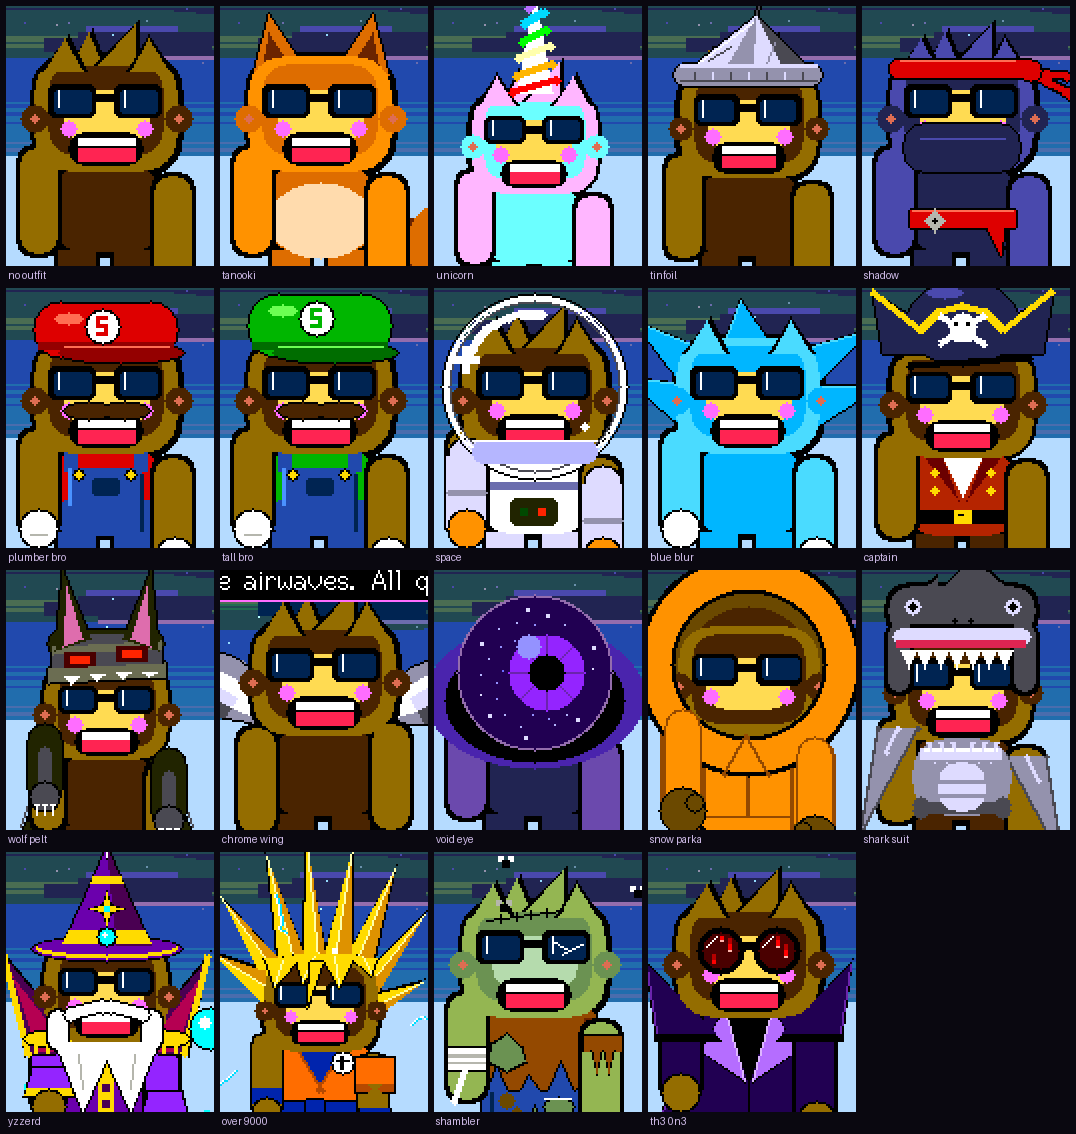
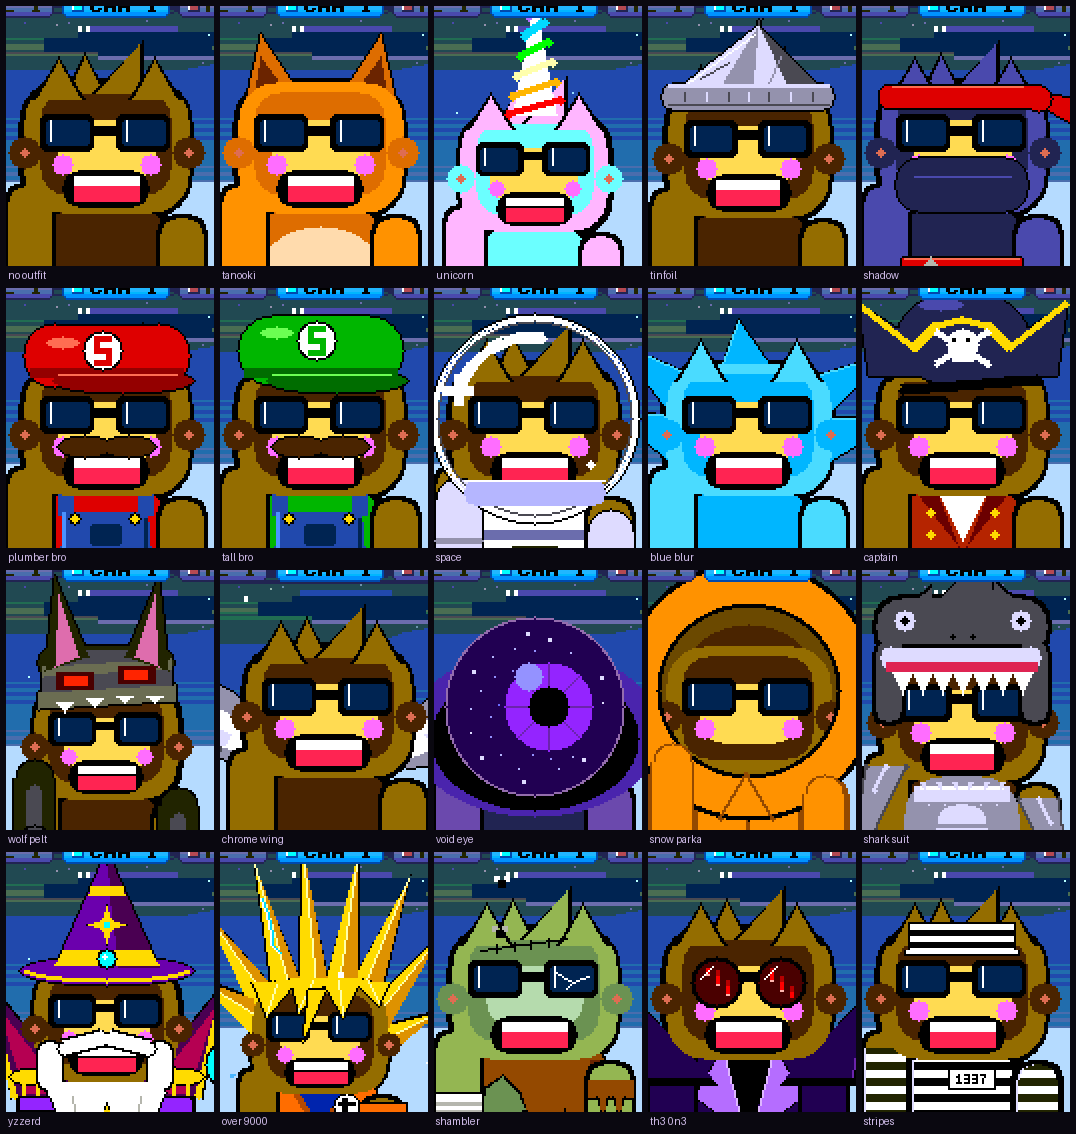
README: the outfit gallery catches up with STRIPES
The sheet was last rendered at v1.30.0, three costumes before the cell
block. Re-rendered from the firmware, so all nineteen are on it, and the
text counts them.

diff --git a/README.md b/README.md
@@ -399,13 +399,14 @@ one board by hand, then UPDATE SQUAD from it.
 
 ## Every outfit
 
-Squachy has eighteen costumes. Most are earned by detection count; nine are
+Squachy has nineteen costumes. Most are earned by detection count; ten are
 hidden behind things nobody tells you about, on the background they belong
-to. Two of them are in the animation at the top of this page.
+to, and one of those is a punishment rather than a prize. Two of them are
+in the animation at the top of this page.
 
 <p align="center">
   <img src="docs/outfits.png" width="880"
-       alt="All eighteen of Squachy's outfits, rendered by the firmware">
+       alt="All nineteen of Squachy's outfits, rendered by the firmware">
 </p>
 
 No fabricated marketing shots, which was the promise here before there was
